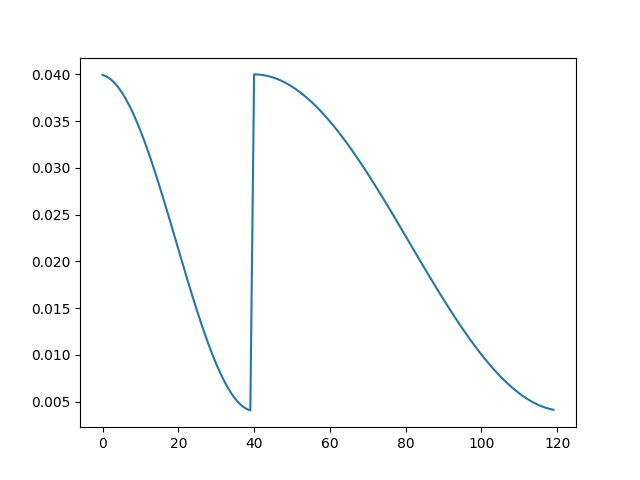
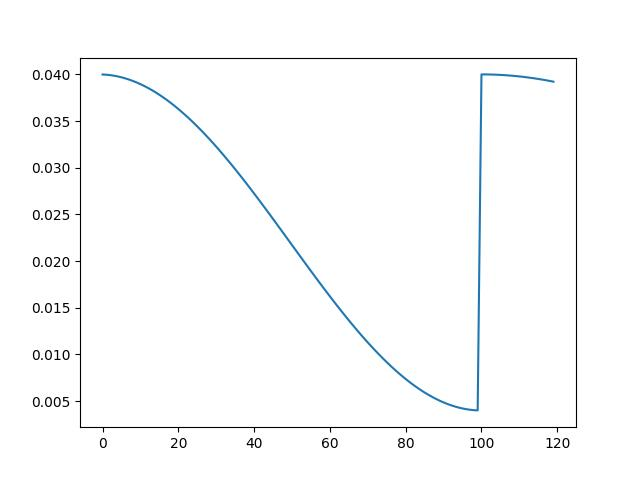
v2.1

diff --git a/prune_resnet50_cifar10_CSGD.py b/prune_resnet50_cifar10_CSGD.py
@@ -45,8 +45,8 @@ args = parser.parse_args()
 local_rank = args.local_rank
 block_prune_probs = [args.pruned_per] * 16
 TIMESTAMP = "{0:%Y-%m-%dT%H-%M-%S/}".format(datetime.now())
-TENSORBOARD_LOG_DIR = os.getenv("TENSORBOARD_LOG_PATH", "/tensorboard_logs/")
-# TENSORBOARD_LOG_DIR = os.getenv("TENSORBOARD_LOG_PATH", "save/runs/")
+# TENSORBOARD_LOG_DIR = os.getenv("TENSORBOARD_LOG_PATH", "/tensorboard_logs/")
+TENSORBOARD_LOG_DIR = os.getenv("TENSORBOARD_LOG_PATH", "save/runs/")
 
 
 def get_dataloader():
@@ -178,6 +178,7 @@ def train_with_csgd(model, model_name, train_loader, test_loader, is_resume, mod
     optimizer = torch.optim.SGD(model.parameters(), lr=0.04, momentum=0.9, weight_decay=1e-4)
     # scheduler = torch.optim.lr_scheduler.ExponentialLR(optimizer, gamma=0.9)
     scheduler = torch.optim.lr_scheduler.CosineAnnealingWarmRestarts(optimizer, eta_min=0.004, T_0=args.total_epochs//3+1, T_mult=2)
+    # scheduler = torch.optim.lr_scheduler.CosineAnnealingWarmRestarts(optimizer, eta_min=0.004, T_0=args.total_epochs+1, T_mult=2)
     loss_func = nn.CrossEntropyLoss().to(local_rank)
     # --------------------------- done ------------------------------
 
@@ -245,21 +246,39 @@ def train_with_csgd(model, model_name, train_loader, test_loader, is_resume, mod
             kernel_namedvalue_list=kernel_namedvalue_list,
             weight_decay=1e-4,
             weight_decay_bias=0,
-            centri_strength=0.1)
+            centri_strength=0.4)
+        # ----------------------------------- done -----------------------------------
+
+        # ------------------- 获取聚类 -------------------
+        conv_idx = 0
+        param_to_clusters = {} # 通过 layer_idx_to_clusters 获得 param_to_clusters
+        for k, v in model.named_parameters():
+            if v.dim() != 4:
+                continue
+            if conv_idx in layer_idx_to_clusters:
+                for clsts in layer_idx_to_clusters[conv_idx]:
+                    if len(clsts) > 1:
+                        param_to_clusters[v] = layer_idx_to_clusters[conv_idx]
+                        break
+            conv_idx += 1
+        # ----------------------------------- done -----------------------------------
 
         if not is_resume:
             start_epoch, end_epoch = args.total_epochs//3, args.total_epochs
         else:
             start_epoch, end_epoch = 0, args.total_epochs
+
         kwargs = {"param_name_to_merge_matrix":param_name_to_merge_matrix, "param_name_to_decay_matrix":param_name_to_decay_matrix}
         best_acc = train_core(model, train_loader, test_loader, model_save_path, model_name, optimizer, scheduler, loss_func, 
-                    best_acc, writer, start_epoch, end_epoch, is_update=True, **kwargs)
+                    best_acc, writer, start_epoch, end_epoch, is_update=True,param_to_clusters=param_to_clusters,  **kwargs)
+
         print("Best Acc=%.4f" % (best_acc))
+
 
 def train_core(model, train_loader, test_loader, 
                 model_save_path, model_name, optimizer, scheduler, loss_func, 
                 best_acc, writer, start_epoch, end_epoch, 
-                is_update=False, **kwargs):
+                is_update=False,param_to_clusters=None, **kwargs):
     for epoch in range(start_epoch, end_epoch):
         model.train()
         for i, (img, target) in enumerate(train_loader):
@@ -282,8 +301,8 @@ def train_core(model, train_loader, test_loader,
         print("Epoch %d/%d, Acc=%.4f" % (epoch, args.total_epochs, acc))
 
         model_file = model_save_path + model_name +'-round%d.pth' % (args.round)
-        if best_acc < acc:
-            if os.path.exists(model_file):
+        if best_acc < acc and local_rank == 0:
+            if local_rank == 0 and os.path.exists(model_file):
                 os.remove(model_file)
             torch.save(model.module, model_file)
             best_acc = acc
@@ -291,12 +310,26 @@ def train_core(model, train_loader, test_loader,
         writer.add_scalar('eval/acc', acc, epoch)
         writer.add_scalar('train/loss', loss, epoch)
         writer.add_scalar('train/lr', optimizer.param_groups[0]['lr'], epoch)
+
+        if is_update and local_rank == 0:
+            deviation_sum = 0
+            for param, clusters in param_to_clusters.items():
+                pvalue = param.detach().cpu().numpy()
+                for cl in clusters:
+                    if len(cl) == 1:
+                        continue
+                    selected = pvalue[cl, :, :, :]
+                    mean_kernel = np.mean(selected, axis=0, keepdims=True)
+                    diff = selected - mean_kernel
+                    deviation_sum += np.sum(diff ** 2)
+            writer.add_scalar('train/deviation_sum', deviation_sum, epoch)
+
     return best_acc
 
 
 def main():
-    model_save_path = '/Tos/model/my_pruning_model/'+ TIMESTAMP
-    # model_save_path = 'save/train_and_prune'
+    # model_save_path = '/Tos/model/my_pruning_model/'+ TIMESTAMP
+    model_save_path = 'save/train_and_prune/' + TIMESTAMP
     if local_rank == 0 and not os.path.exists(model_save_path):
         os.makedirs(model_save_path)
 

diff --git a/_experiment/ex_lr_schedule.py b/_experiment/ex_lr_schedule.py
@@ -12,7 +12,7 @@ mode='cosineAnnWarm'
 if mode=='cosineAnn':
     scheduler = CosineAnnealingLR(optimizer, T_max=30, eta_min=0)
 elif mode=='cosineAnnWarm':
-    scheduler = CosineAnnealingWarmRestarts(optimizer,eta_min=0.004, T_0=41,T_mult=2)
+    scheduler = CosineAnnealingWarmRestarts(optimizer,eta_min=0.004, T_0=101,T_mult=2)
     '''
     以T_0=5, T_mult=1为例:
     T_0:学习率第一次回到初始值的epoch位置.
@@ -25,7 +25,7 @@ elif mode=='cosineAnnWarm':
         T_0=5, T_mult=1
     '''
 plt.figure()
-max_epoch=120
+max_epoch=100
 iters=200
 cur_lr_list = []
 for epoch in range(max_epoch):

diff --git a/utils/model_utils.py b/utils/model_utils.py
@@ -28,6 +28,8 @@ class ModelUtils(object):
         self.state = State()
         self.local_rank = local_rank
         self.logger = None
+        self.world_size = int(os.environ['WORLD_SIZE'])
+        self.world_rank = int(os.environ['RANK'])
 
     def register_state(self, **kwargs):
         self.state.register(**kwargs)
